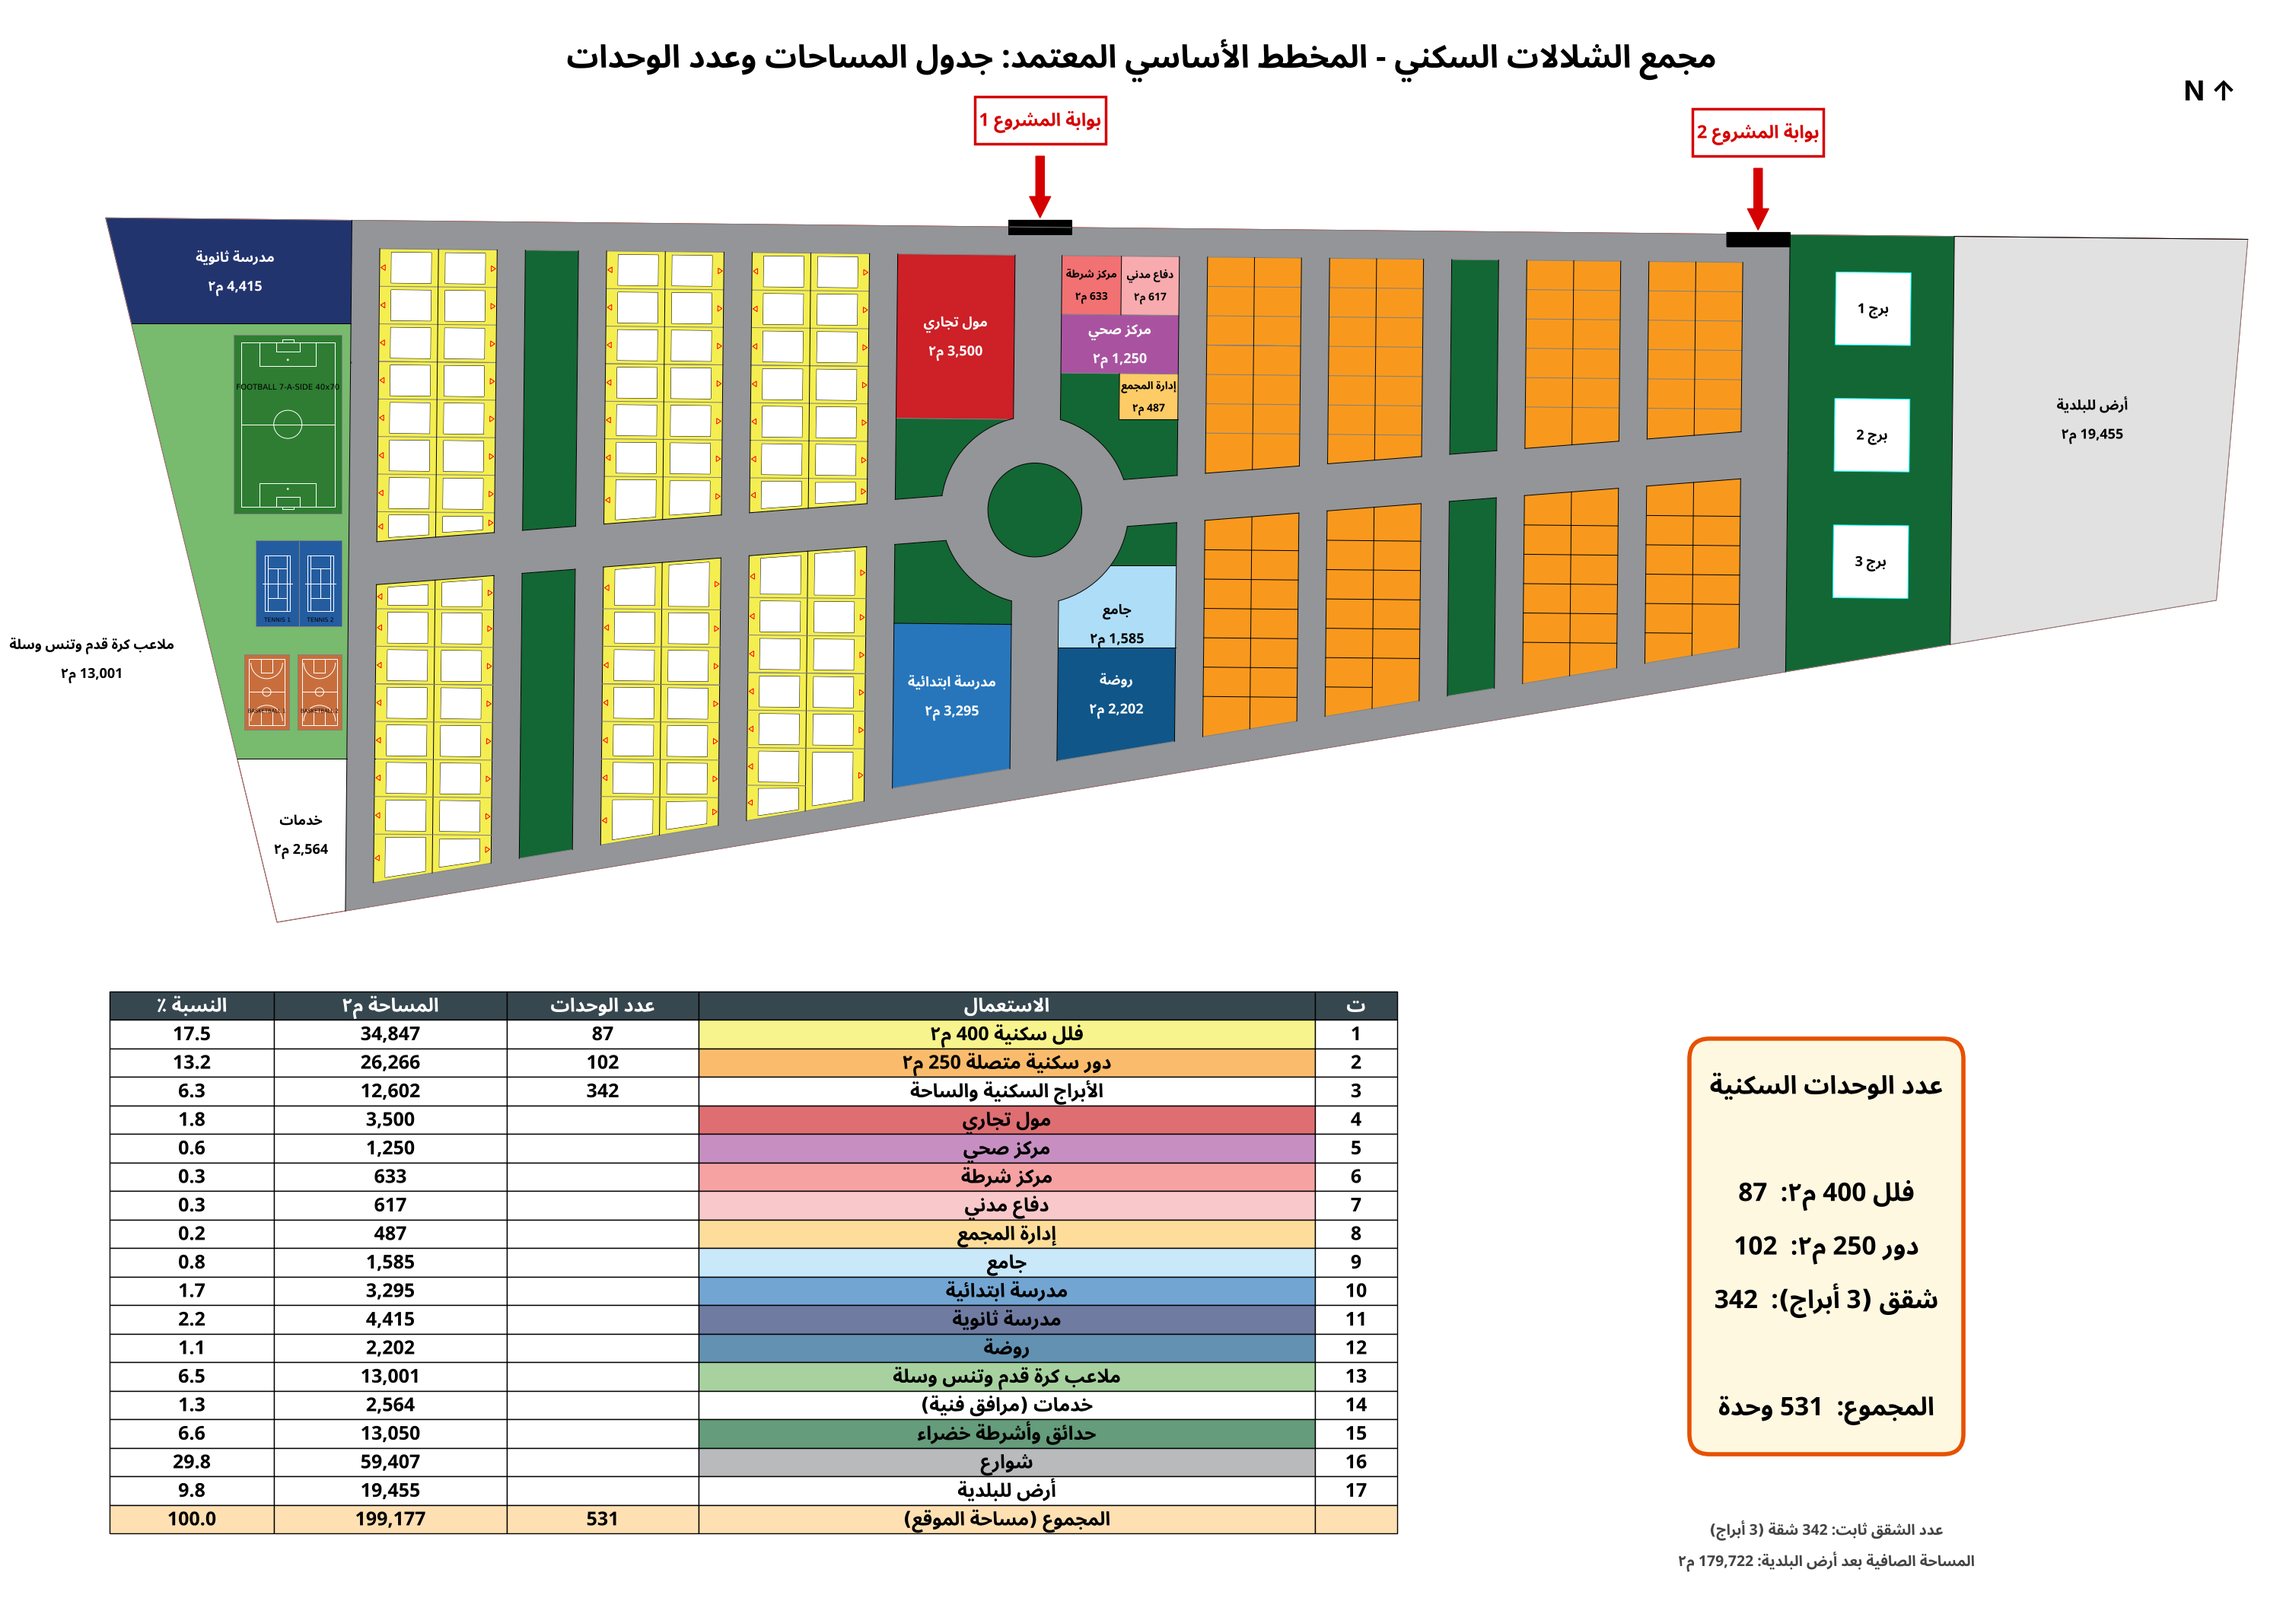
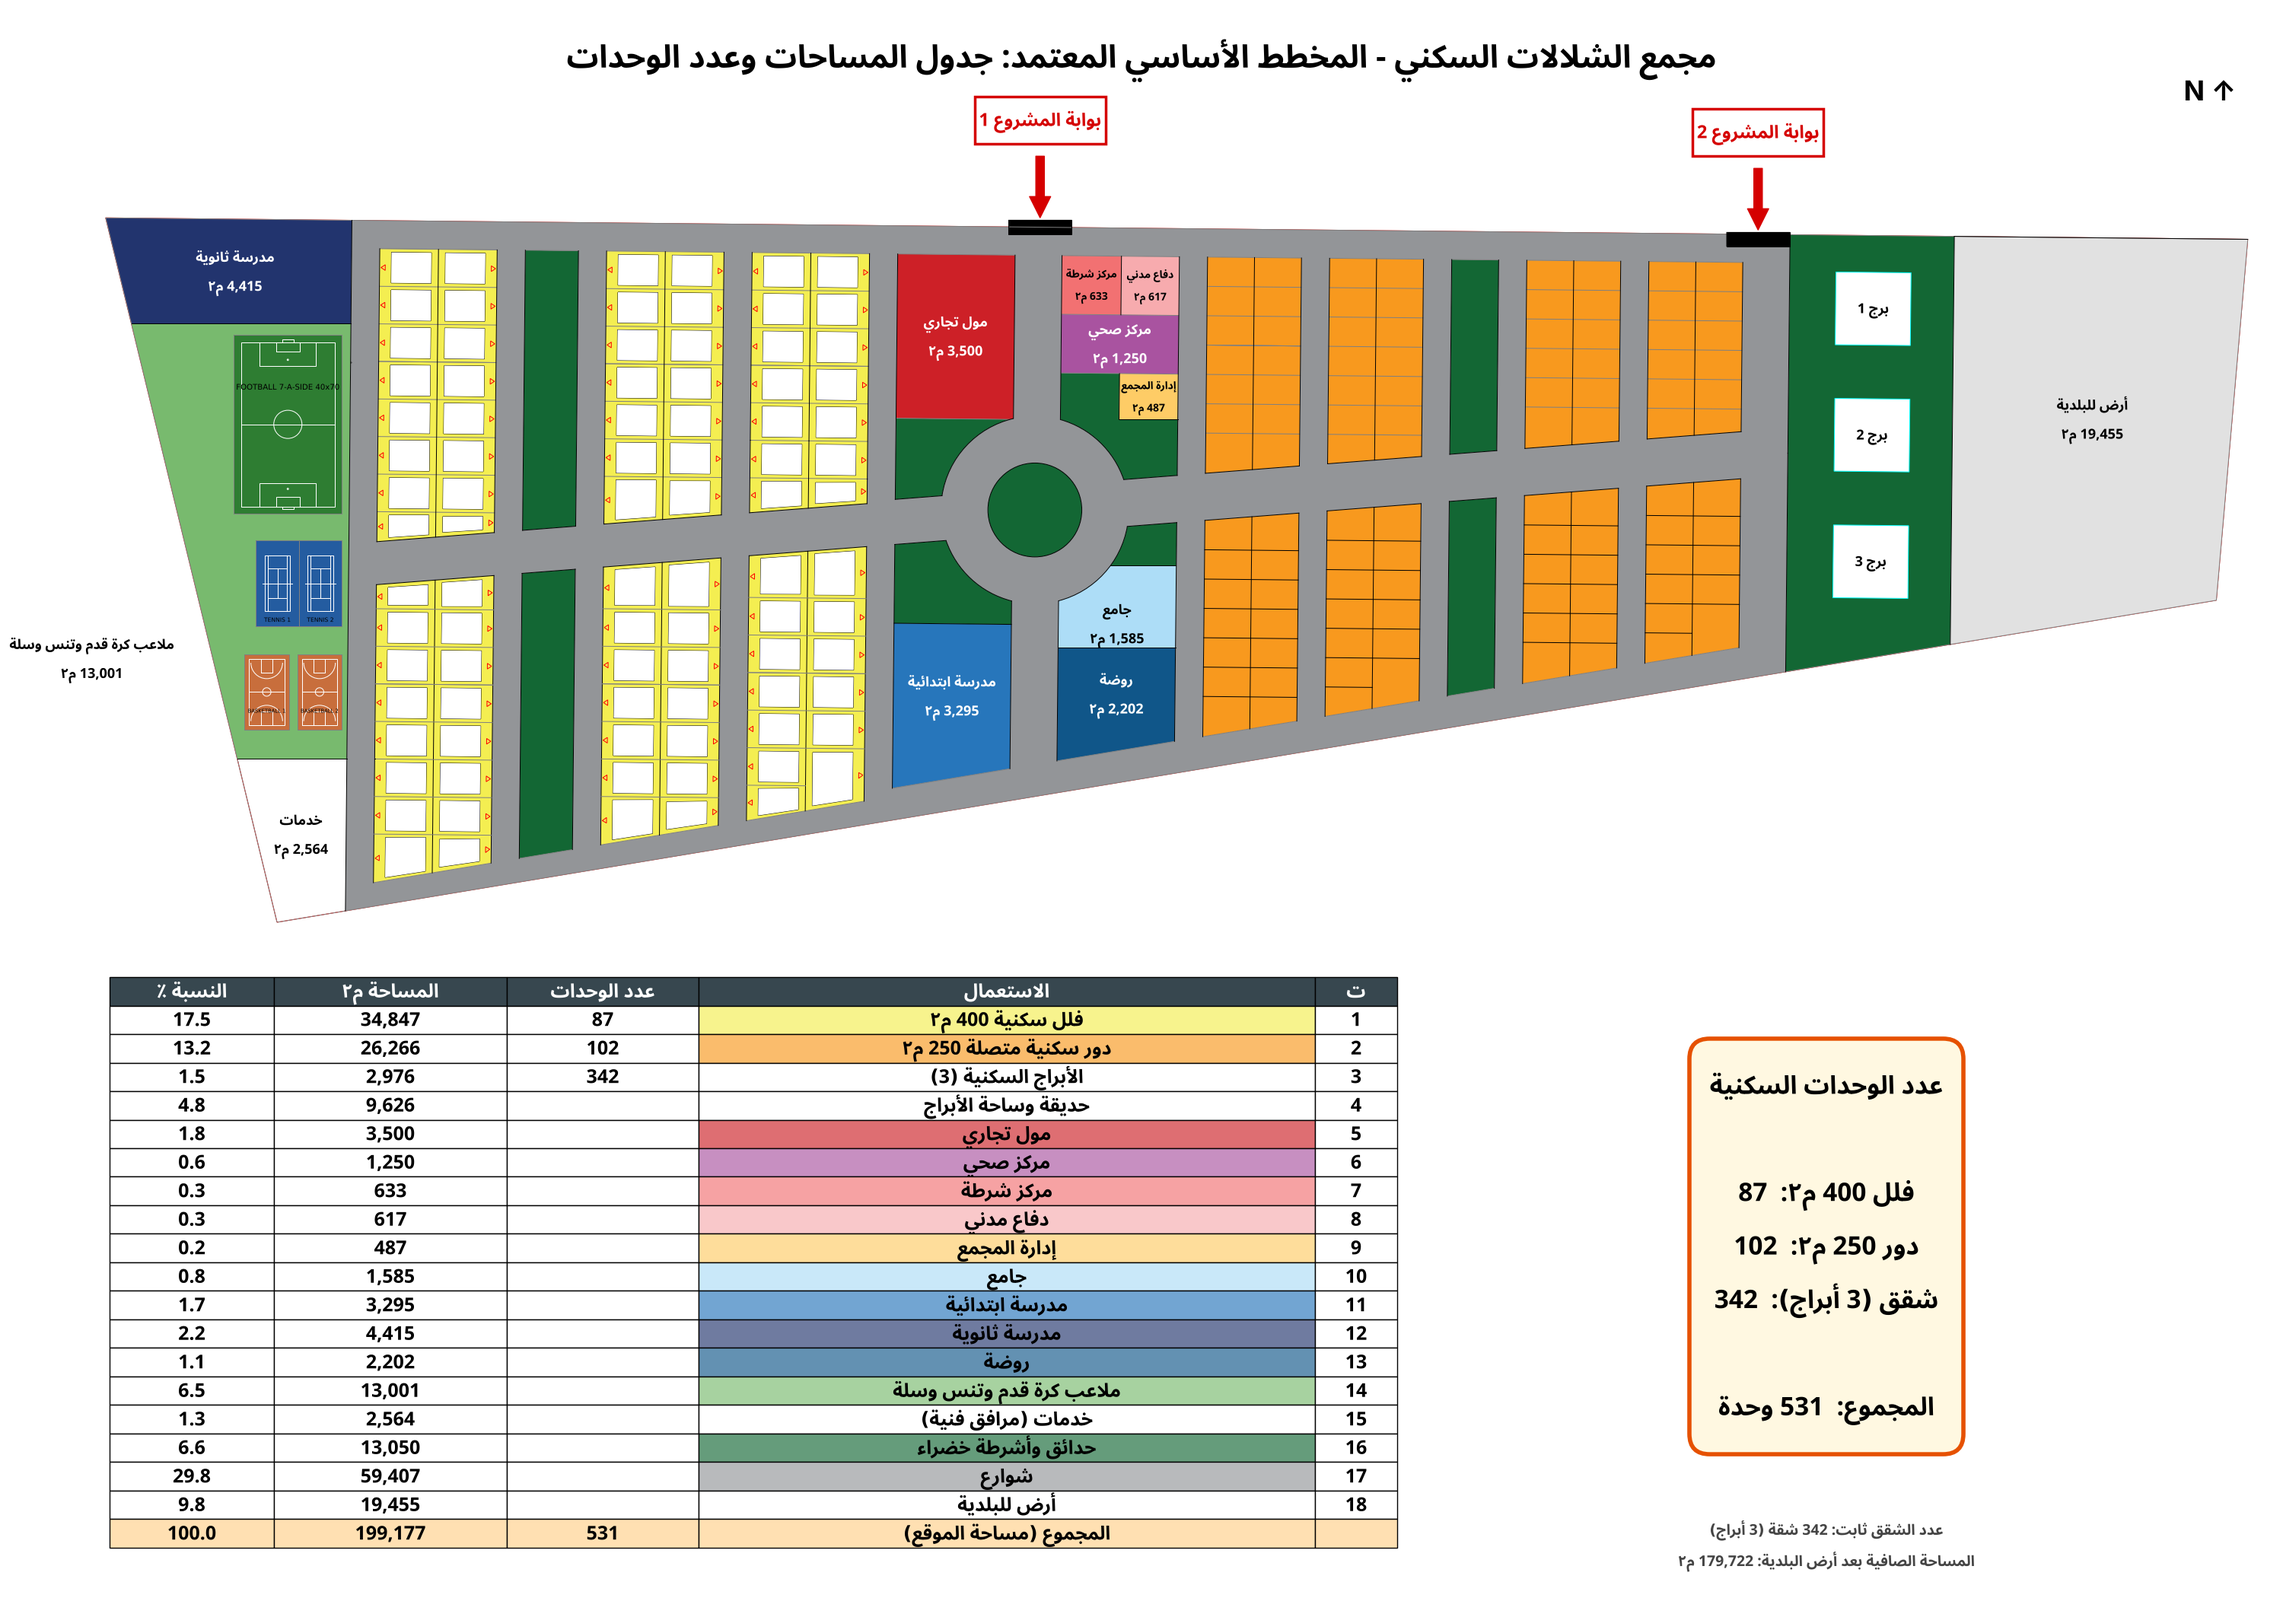
Shallalat approved areas: towers (2,976 m2) separate from tower garden/plaza
Claude-Session: https://claude.ai/code/session_01ENNNVGbrswdav89NKp7G8B

Changed region(s): [[0.031, 0.5881, 0.62, 0.9905]]

diff --git a/shallalat_housing/approved_masterplan/areas_table.py b/shallalat_housing/approved_masterplan/areas_table.py
@@ -42,7 +42,7 @@ geo['services_sw'] = left.intersection(Polygon([(sv[0]-200, sp[1]), (sp[2], sp[1
 rest = left.difference(geo['services_sw'])
 for g in sorted(getattr(rest, 'geoms', [rest]), key=lambda g: -g.area)[:6]: print('unassigned', round(g.area), [round(t) for t in g.bounds])
 tw = unary_union(towers).buffer(0.5)
-geo['plaza'] = geo['plaza'].union(rest.intersection(tw))      # tower footprints (white squares)
+geo['towers'] = rest.intersection(tw)      # tower footprints (white squares)
 geo['road'] = geo['road'].union(rest.difference(tw))   # thin gaps between hatches -> roads
 A = {k: g.area for k, g in geo.items()}
 FLATS = 342   # fixed by the user
@@ -63,7 +63,7 @@ fig = plt.figure(figsize=(30, 21), facecolor='white')
 ax = fig.add_axes([0.0, 0.40, 1.0, 0.56])
 Frontend(RenderContext(doc), MatplotlibBackend(ax), config=Configuration(background_policy=BackgroundPolicy.WHITE)).draw_layout(
     ms, finalize=False, filter_func=lambda e: e.dxftype() not in ('MULTILEADER', 'TEXT') or e.dxf.layer == 'MP_SPORT_TEXT')
-NAMES = dict(villa='فلل سكنية 400 م٢', house='دور سكنية متصلة 250 م٢', plaza='الأبراج السكنية والساحة', mall='مول تجاري',
+NAMES = dict(villa='فلل سكنية 400 م٢', house='دور سكنية متصلة 250 م٢', towers='الأبراج السكنية (3)', plaza='حديقة وساحة الأبراج', mall='مول تجاري',
              police='مركز شرطة', cd='دفاع مدني', health='مركز صحي', admin='إدارة المجمع', primary='مدرسة ابتدائية',
              kg='روضة', mosque='جامع', secondary='مدرسة ثانوية', sports='ملاعب كرة قدم وتنس وسلة',
              services_sw='خدمات (مرافق فنية)', green='حدائق وأشرطة خضراء', road='شوارع', muni='أرض للبلدية')
@@ -86,7 +86,7 @@ ax.set_xlim(minx-45, maxx+15); ax.set_ylim(miny-10, maxy+60); ax.set_aspect('equ
 ax.text(maxx-5, maxy+50, 'N ↑', size=26, ha='right', fontweight='bold')
 fig.text(0.5, 0.985, 'مجمع الشلالات السكني - المخطط الأساسي المعتمد: جدول المساحات وعدد الوحدات', ha='center', va='top', size=30, **AR)
 # ---- table
-rows = [('villa', units['villa']), ('house', units['house']), ('plaza', units['flats']), ('mall', None), ('health', None),
+rows = [('villa', units['villa']), ('house', units['house']), ('towers', units['flats']), ('plaza', None), ('mall', None), ('health', None),
         ('police', None), ('cd', None), ('admin', None), ('mosque', None), ('primary', None), ('secondary', None), ('kg', None),
         ('sports', None), ('services_sw', None), ('green', None), ('road', None)]
 net = bnd.area - A['muni']
